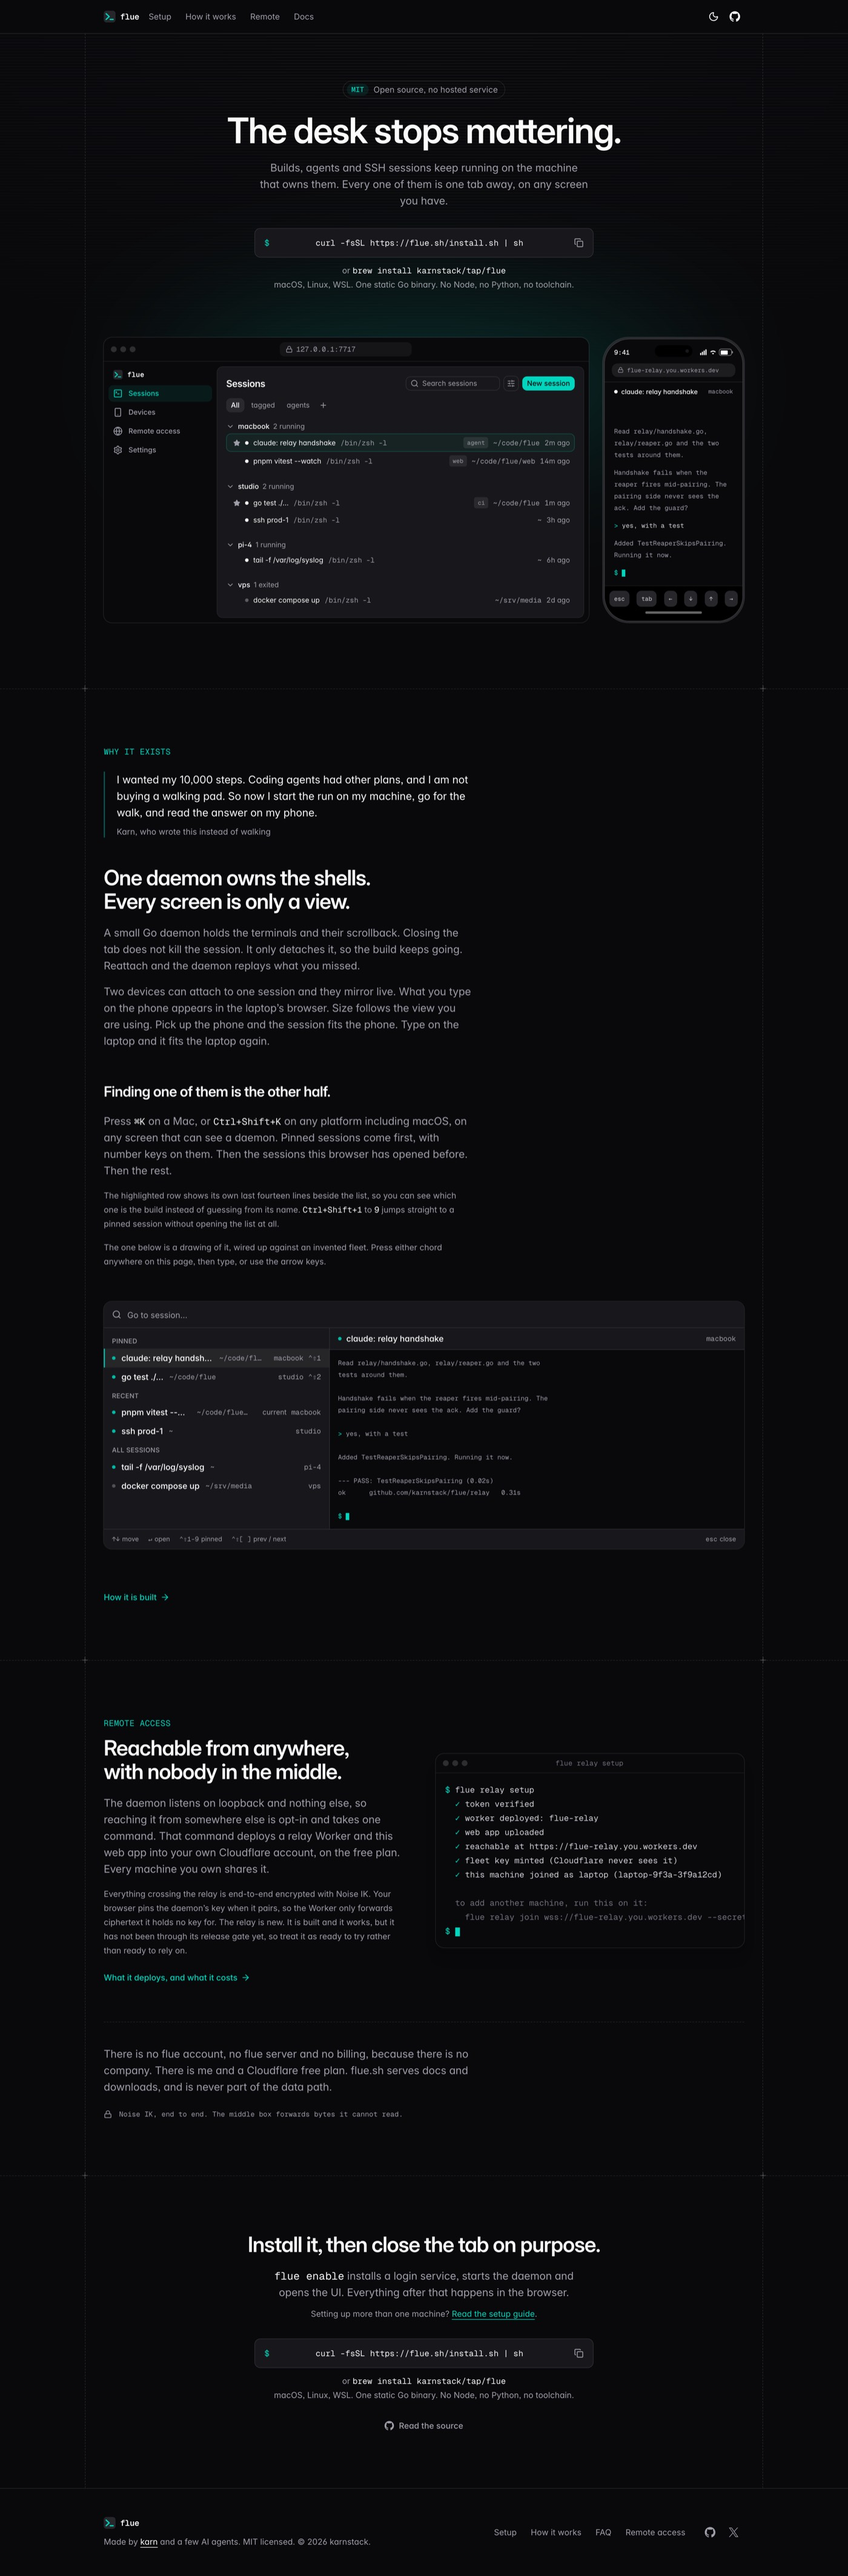
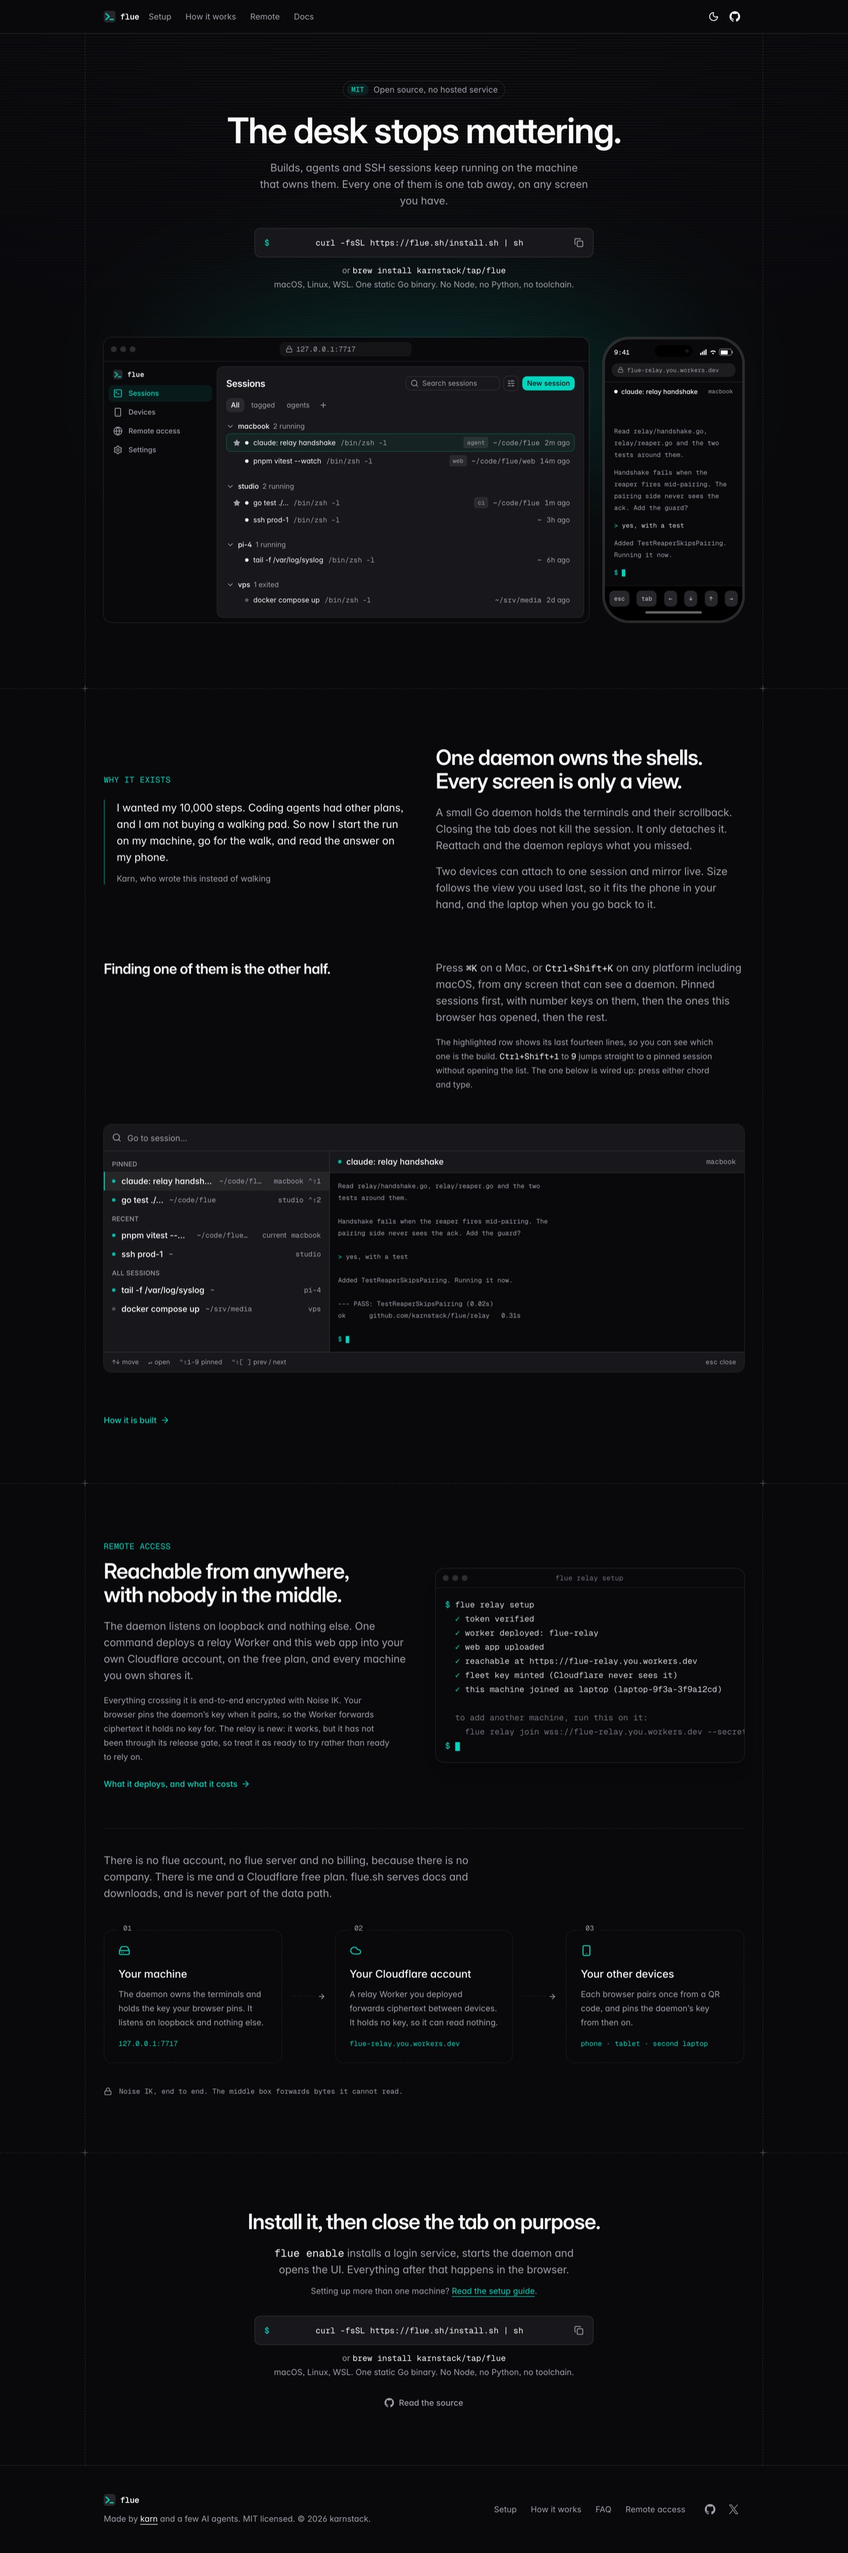
fix(site): put the trust diagram back, and give the sessions section its width
Three things, one cause: the sessions section was a single narrow column in a
wide container.

The heading group carried max-w-[62ch] on its wrapper, which the design
guidelines forbid outright: a wrapper constraint stops every element inside
from using the measure it should, and it left the prose ending 62 characters
in while the palette below ran the full container. The edges never lined up.
Each text element now carries its own max-w-[*ch] instead, by size, and the
section is two rows of the same grid and gap Remote uses, so the columns line
up down the page. Row one puts the reason it exists beside what it is; row two
puts the palette's heading beside its prose.

The prose was also long. Every audited claim survives, in about two thirds of
the words: the mirroring paragraph loses the sentence that restated the
subline, and the palette's three paragraphs are two.

The numbered path through the three places is back, under the trust
paragraph. Cutting it was wrong. The prose makes the claim that the middle
box holds no key and the drawing is what shows it, which is the division of
labour the two sections should have had all along, and it is the one picture
on the page that argues rather than illustrates.

diff --git a/site/src/routes/index.tsx b/site/src/routes/index.tsx
@@ -1,5 +1,6 @@
+import { Fragment } from 'react'
 import { createFileRoute } from '@tanstack/react-router'
-import { ArrowRight, Lock, Plus } from 'lucide-react'
+import { ArrowRight, Cloud, HardDrive, Lock, Plus, Smartphone } from 'lucide-react'
 
 import { CopyCommand } from '@/components/copy-command'
 import { FleetWindow, PhoneFrame } from '@/components/mock/fleet'
@@ -196,54 +197,60 @@ function Sessions() {
   return (
     <section id="sessions" className="scroll-mt-20 py-20 sm:py-24">
       <div className="mx-auto max-w-6xl px-4 sm:px-6 lg:px-8">
-        <div className="max-w-[62ch]">
-          <p className="font-mono text-sm tracking-wide text-primary uppercase">Why it exists</p>
+        {/* Why it exists, beside what it is. Same grid and gap as Remote, so
+            the column edges of the two sections line up down the page. */}
+        <div className="grid grid-cols-[minmax(0,1fr)] gap-12 lg:grid-cols-[minmax(0,1fr)_minmax(0,1fr)] lg:items-center lg:gap-10">
+          <div>
+            <p className="font-mono text-sm tracking-wide text-primary uppercase">Why it exists</p>
+            <blockquote className="mt-6 border-l-2 border-primary/40 pl-5">
+              <p className="max-w-[48ch] text-lg text-pretty">
+                I wanted my 10,000 steps. Coding agents had other plans, and I am not buying a
+                walking pad. So now I start the run on my machine, go for the walk, and read the
+                answer on my phone.
+              </p>
+              <footer className="mt-3 text-base text-muted-foreground sm:text-sm">
+                Karn, who wrote this instead of walking
+              </footer>
+            </blockquote>
+          </div>
 
-          <blockquote className="mt-6 border-l-2 border-primary/40 pl-5">
-            <p className="text-lg text-pretty">
-              I wanted my 10,000 steps. Coding agents had other plans, and I am not buying a walking
-              pad. So now I start the run on my machine, go for the walk, and read the answer on my
-              phone.
+          <div>
+            <h2 className="max-w-[35ch] text-3xl font-semibold tracking-tight text-balance sm:text-4xl">
+              One daemon owns the shells. Every screen is only a view.
+            </h2>
+            <p className="mt-5 max-w-[48ch] text-lg text-pretty text-muted-foreground">
+              A small Go daemon holds the terminals and their scrollback. Closing the tab does not
+              kill the session. It only detaches it. Reattach and the daemon replays what you
+              missed.
             </p>
-            <footer className="mt-2 text-base text-muted-foreground sm:text-sm">
-              Karn, who wrote this instead of walking
-            </footer>
-          </blockquote>
+            <p className="mt-4 max-w-[48ch] text-lg text-pretty text-muted-foreground">
+              Two devices can attach to one session and mirror live. Size follows the view you used
+              last, so it fits the phone in your hand, and the laptop when you go back to it.
+            </p>
+          </div>
+        </div>
 
-          <h2 className="mt-12 max-w-[35ch] text-3xl font-semibold tracking-tight text-balance sm:text-4xl">
-            One daemon owns the shells. Every screen is only a view.
-          </h2>
-          <p className="mt-5 text-lg text-pretty text-muted-foreground">
-            A small Go daemon holds the terminals and their scrollback. Closing the tab does not
-            kill the session. It only detaches it, so the build keeps going. Reattach and the daemon
-            replays what you missed.
-          </p>
-          <p className="mt-4 text-lg text-pretty text-muted-foreground">
-            Two devices can attach to one session and they mirror live. What you type on the phone
-            appears in the laptop&rsquo;s browser. Size follows the view you are using. Pick up the
-            phone and the session fits the phone. Type on the laptop and it fits the laptop again.
-          </p>
-
-          <h3 className="mt-14 max-w-[35ch] text-2xl font-semibold tracking-tight text-balance">
+        {/* The palette's heading group, with the heading holding the left
+            column and its prose the right, so the run above the full-width
+            drawing occupies the same measure the drawing does. */}
+        <div className="mt-20 grid grid-cols-[minmax(0,1fr)] gap-x-10 gap-y-6 lg:grid-cols-[minmax(0,1fr)_minmax(0,1fr)] lg:gap-10">
+          <h3 className="max-w-[40ch] text-2xl font-semibold tracking-tight text-balance">
             Finding one of them is the other half.
           </h3>
-          <p className="mt-5 text-lg text-pretty text-muted-foreground">
-            Press <kbd className="font-mono text-base text-foreground">&#8984;K</kbd> on a Mac, or{' '}
-            <kbd className="font-mono text-base text-foreground">Ctrl+Shift+K</kbd> on any platform
-            including macOS, on any screen that can see a daemon. Pinned sessions come first, with
-            number keys on them. Then the sessions this browser has opened before. Then the rest.
-          </p>
-          <p className="mt-4 text-base/7 text-pretty text-muted-foreground sm:text-sm/6">
-            The highlighted row shows its own last fourteen lines beside the list, so you can see
-            which one is the build instead of guessing from its name.{' '}
-            <kbd className="font-mono text-foreground">Ctrl+Shift+1</kbd> to{' '}
-            <kbd className="font-mono text-foreground">9</kbd> jumps straight to a pinned session
-            without opening the list at all.
-          </p>
-          <p className="mt-4 text-base/7 text-pretty text-muted-foreground sm:text-sm/6">
-            The one below is a drawing of it, wired up against an invented fleet. Press either chord
-            anywhere on this page, then type, or use the arrow keys.
-          </p>
+          <div>
+            <p className="max-w-[48ch] text-lg text-pretty text-muted-foreground">
+              Press <kbd className="font-mono text-base text-foreground">&#8984;K</kbd> on a Mac, or{' '}
+              <kbd className="font-mono text-base text-foreground">Ctrl+Shift+K</kbd> on any platform
+              including macOS, from any screen that can see a daemon. Pinned sessions first, with
+              number keys on them, then the ones this browser has opened, then the rest.
+            </p>
+            <p className="mt-4 max-w-[56ch] text-base/7 text-pretty text-muted-foreground sm:text-sm/6">
+              The highlighted row shows its last fourteen lines, so you can see which one is the
+              build. <kbd className="font-mono text-foreground">Ctrl+Shift+1</kbd> to{' '}
+              <kbd className="font-mono text-foreground">9</kbd> jumps straight to a pinned session
+              without opening the list. The one below is wired up: press either chord and type.
+            </p>
+          </div>
         </div>
 
         {/* Full width rather than in a column: the real dialog is 56rem across
@@ -267,13 +274,43 @@ function Sessions() {
 
 /* --------------------------------------------------------------- remote --- */
 
+/*
+ * The three places your bytes are, in order.
+ *
+ * The middle one is the point: it is the box you do not have to trust, and it
+ * is drawn between the other two so that the dashed run passing through it
+ * reads as one channel rather than two hops. The device box says the browser
+ * pins the daemon's key, because the browser holds a long-lived key of its own
+ * (web/src/crypto/keys.ts) and this panel used to claim the daemon held the
+ * only one.
+ */
+const PATH = [
+  {
+    title: 'Your machine',
+    body: 'The daemon owns the terminals and holds the key your browser pins. It listens on loopback and nothing else.',
+    mono: '127.0.0.1:7717',
+    icon: HardDrive,
+  },
+  {
+    title: 'Your Cloudflare account',
+    body: 'A relay Worker you deployed forwards ciphertext between devices. It holds no key, so it can read nothing.',
+    mono: 'flue-relay.you.workers.dev',
+    icon: Cloud,
+  },
+  {
+    title: 'Your other devices',
+    body: 'Each browser pairs once from a QR code, and pins the daemon’s key from then on.',
+    mono: 'phone · tablet · second laptop',
+    icon: Smartphone,
+  },
+]
+
 /**
  * Remote access and the trust argument, together.
  *
- * They were two sections, and the second one was a numbered three-box path
- * restating what the first had already said in prose. The claim that carries
- * the weight is that nothing in the middle holds a key, and it needs one
- * paragraph rather than a diagram of itself.
+ * They were two sections saying one thing twice: the prose and the path both
+ * argued that the middle holds no key. Merged, the prose makes the claim and
+ * the path shows it, which is the division of labour they should have had.
  */
 function Remote() {
   return (
@@ -290,16 +327,16 @@ function Remote() {
             <h2 className="mt-3 max-w-[35ch] text-3xl font-semibold tracking-tight text-balance sm:text-4xl">
               Reachable from anywhere, with nobody in the middle.
             </h2>
-            <p className="mt-5 max-w-[56ch] text-lg text-pretty text-muted-foreground">
-              The daemon listens on loopback and nothing else, so reaching it from somewhere else is
-              opt-in and takes one command. That command deploys a relay Worker and this web app
-              into your own Cloudflare account, on the free plan. Every machine you own shares it.
+            <p className="mt-5 max-w-[48ch] text-lg text-pretty text-muted-foreground">
+              The daemon listens on loopback and nothing else. One command deploys a relay Worker
+              and this web app into your own Cloudflare account, on the free plan, and every machine
+              you own shares it.
             </p>
             <p className="mt-4 max-w-[56ch] text-base/7 text-pretty text-muted-foreground sm:text-sm/6">
-              Everything crossing the relay is end-to-end encrypted with Noise IK. Your browser pins
-              the daemon&rsquo;s key when it pairs, so the Worker only forwards ciphertext it holds
-              no key for. The relay is new. It is built and it works, but it has not been through
-              its release gate yet, so treat it as ready to try rather than ready to rely on.
+              Everything crossing it is end-to-end encrypted with Noise IK. Your browser pins the
+              daemon&rsquo;s key when it pairs, so the Worker forwards ciphertext it holds no key
+              for. The relay is new: it works, but it has not been through its release gate, so
+              treat it as ready to try rather than ready to rely on.
             </p>
             <a
               href="/docs/relay"
@@ -312,18 +349,65 @@ function Remote() {
         </div>
 
         <div className="mt-16 border-t border-dashed border-border pt-10">
-          <p className="max-w-[62ch] text-lg text-pretty text-muted-foreground">
+          <p className="max-w-[56ch] text-lg text-pretty text-muted-foreground">
             There is no flue account, no flue server and no billing, because there is no company.
             There is me and a Cloudflare free plan. flue.sh serves docs and downloads, and is never
             part of the data path.
           </p>
-          <p className="mt-6 flex items-center gap-3 font-mono text-xs text-muted-foreground">
+
+          {/* The three places, as a path rather than as three cards: dashed
+              connectors carry the Noise IK channel from end to end, and the
+              middle box is deliberately the one that holds no key. */}
+          <ol
+            role="list"
+            className="mt-12 grid grid-cols-[minmax(0,1fr)] gap-y-10 lg:grid-cols-[minmax(0,1fr)_auto_minmax(0,1fr)_auto_minmax(0,1fr)] lg:items-stretch lg:gap-y-0"
+          >
+            {PATH.map((step, i) => (
+              <Fragment key={step.title}>
+                {i > 0 && <Connector />}
+                <li className="relative rounded-xl border border-dashed border-border p-6">
+                  <span
+                    aria-hidden="true"
+                    className="absolute -top-3 left-6 flex items-center gap-2 bg-background px-2 font-mono text-xs tabular-nums text-muted-foreground"
+                  >
+                    {String(i + 1).padStart(2, '0')}
+                  </span>
+                  <step.icon className="size-5 shrink-0 text-primary" aria-hidden="true" />
+                  <p className="mt-4 text-lg font-medium">{step.title}</p>
+                  <p className="mt-2 text-base/7 text-pretty text-muted-foreground sm:text-sm/6">
+                    {step.body}
+                  </p>
+                  <p className="mt-4 truncate font-mono text-xs text-primary">{step.mono}</p>
+                </li>
+              </Fragment>
+            ))}
+          </ol>
+
+          <p className="mt-10 flex items-center gap-3 font-mono text-xs text-muted-foreground">
             <Lock className="size-3.5 shrink-0" aria-hidden="true" />
             Noise IK, end to end. The middle box forwards bytes it cannot read.
           </p>
         </div>
       </div>
     </section>
+  )
+}
+
+/**
+ * The dashed run between two boxes in the path. Horizontal from `lg`, where
+ * the boxes sit in a row; vertical below it, where they stack.
+ */
+function Connector() {
+  return (
+    <li aria-hidden="true" className="flex items-center justify-center lg:px-4">
+      <span className="flex items-center gap-1 max-lg:hidden">
+        <span className="w-10 border-t border-dashed border-border" />
+        <ArrowRight className="size-3.5 shrink-0 text-muted-foreground" />
+      </span>
+      <span className="flex flex-col items-center gap-1 lg:hidden">
+        <span className="h-6 border-l border-dashed border-border" />
+      </span>
+    </li>
   )
 }
 
